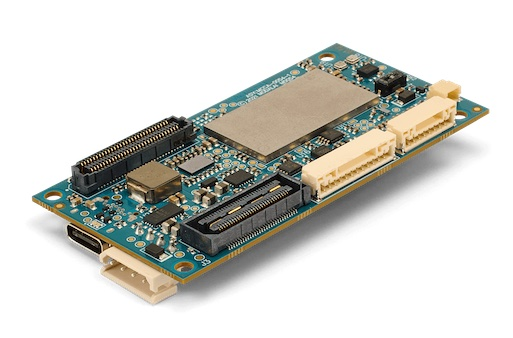
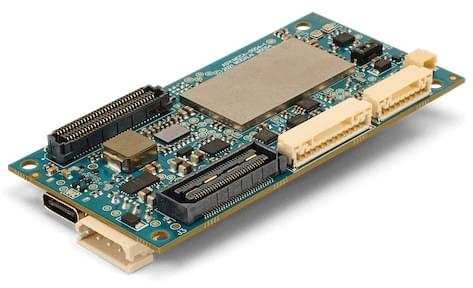
Minor subedit - primarily file sizes

diff --git a/en/flight_controller/modalai_voxl_2.md b/en/flight_controller/modalai_voxl_2.md
@@ -58,12 +58,11 @@ More detailed hardware documentation can be found [here](https://docs.modalai.co
 
 [3D STEP File](https://storage.googleapis.com/modalai_public/modal_drawings/M0054_VOXL2_PVT_SIP_REVA.step)
 
-
 ## PX4 Firmware Compatibility
 
 ### voxl-dev branch
 
-*VOXL 2* is currently being mainlined into PX4, and ModalAI is actively working on a [branched PX4 version](https://github.com/modalai/px4-firmware/tree/voxl-dev) that can be used.
+ModalAI is actively working on a [branched PX4 version](https://github.com/modalai/px4-firmware/tree/voxl-dev) that can be used.
 
 As VOXL 2 runs Ubuntu, the production releases of PX4 for VOXL 2 are distributed through [apt package management](https://docs.modalai.com/configure-pkg-manager/) and the [VOXL SDK](https://docs.modalai.com/voxl-sdk/).
 
@@ -71,7 +70,7 @@ More information about the firmware can be found [here](https://docs.modalai.com
 
 ### main branch
 
-The goal is PX4 mainline support, and this is a work in progress currently started [here](https://github.com/PX4/PX4-Autopilot/tree/main/boards/modalai/voxl2)
+PX4 mainline support is a work in progress (currently started [here](https://github.com/PX4/PX4-Autopilot/tree/main/boards/modalai/voxl2)).
 
 ## QGroundControl Support
 
@@ -95,7 +94,7 @@ VOXL SDK (Software Development Kit) consists of the open source [voxl-px4](https
 
 VOXL SDK runs on VOXL, VOXL 2 and RB5 Flight!
 
-The source code for projects within VOXL SDK can be found at https://gitlab.com/voxl-public alongside build instructions.
+The source code for projects within VOXL SDK can be found at https://gitlab.com/voxl-public, alongside build instructions.
 
 ### Connectors
 
@@ -103,7 +102,7 @@ Detailed information about the pinouts can be found [here](https://docs.modalai.
 
 ![VOXLConnectors](../../assets/flight_controller/modalai/voxl_2/voxl-2-connectors.jpg)
 
-All single ended signals on B2B connectors J3, J5, J6, J7, and J8 are 1.8V CMOS unless explicitly noted. 
+All single ended signals on B2B connectors J3, J5, J6, J7, and J8 are 1.8V CMOS unless explicitly noted.
 All single ended signals on cable-to-board connectors J10, J18, & J19 are 3.3V CMOS unless explicitly noted.
 
 | Connector | Description                   | MPN (Board Side)        | Mating MPN (Board/Cable Side) | Type                         | Signal Feature Summary                                                                                                                                                                                     |
